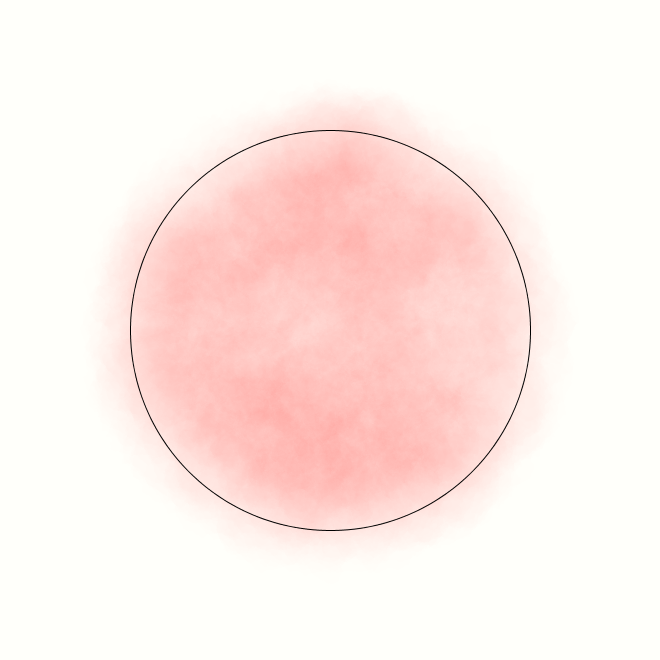
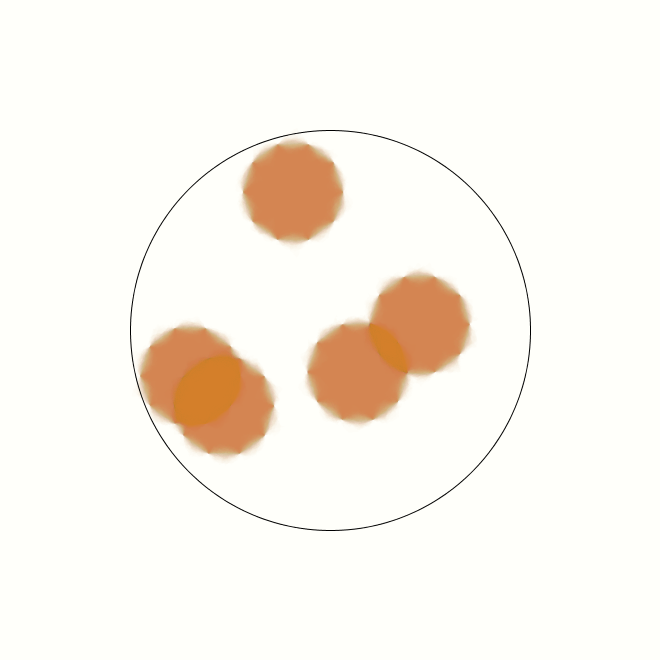
Bugfix LayerFill

Changed region(s): [[0.1818, 0.1515, 0.8182, 0.8182]]

diff --git a/processing/libraries/site-packages/fills.py b/processing/libraries/site-packages/fills.py
@@ -85,10 +85,10 @@ class LayerFill(BasicFill):
 
     def circle(self, c, r, col):
         self.pg.noStroke()
-        self.pg.fill(col[0], col[1], col[2], 1)
+        self.pg.fill(col[0], col[1], col[2], 3)
 
         v = PVector(0,0)
-        for _ in range(50):
+        for _ in range(5):
             # random angle
             alpha = 2 * TWO_PI * random(1)
 
@@ -99,7 +99,8 @@ class LayerFill(BasicFill):
             v.y = r_ * sin(alpha) + c.y
 
             r_fill = r - r_
-            self._splash(v, random(r/4, r / 10), col)
+            #self.pg.circle(v.x, v.y, r/4)
+            self._splash(v, r/4, col)
 
         
         self.pg.noFill()
@@ -150,9 +151,9 @@ class LayerFill(BasicFill):
 
     def _splash(self, c, r, col):
         p = gm.DeformedPolygon(c.x, c.y, r, 10)
-        for _ in range(50):
-            p = p.deform()
-            self._shape_once(p.points, col)
+        for _ in range(100):
+            p_ = p.deform()
+            self._shape_once(p_.points, col)
 
     def _shape_once(self, vs, col):
         self.pg.beginShape()
